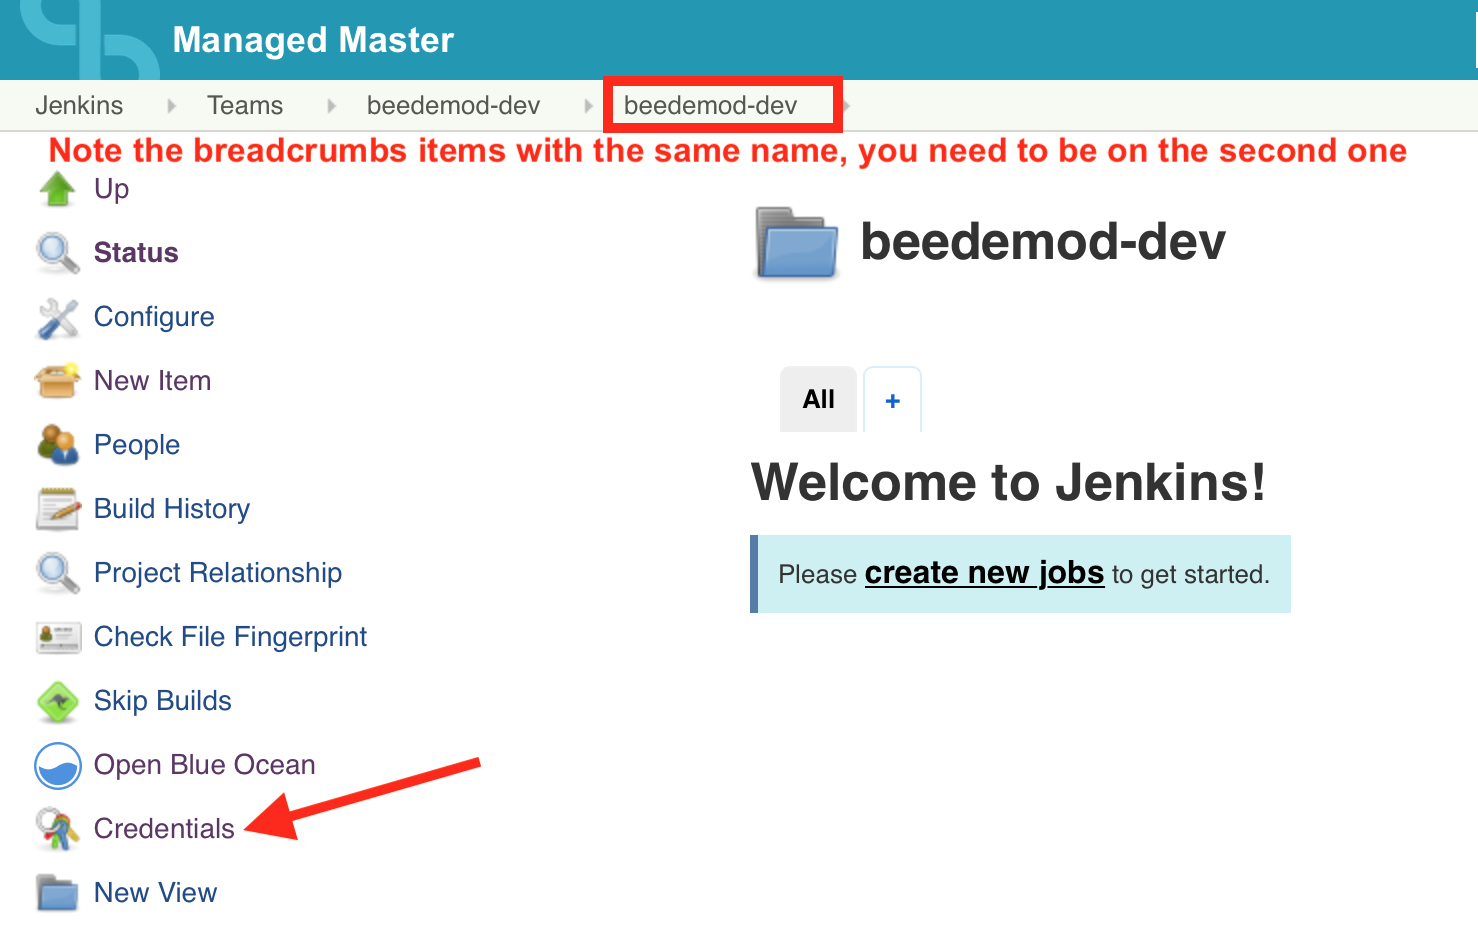
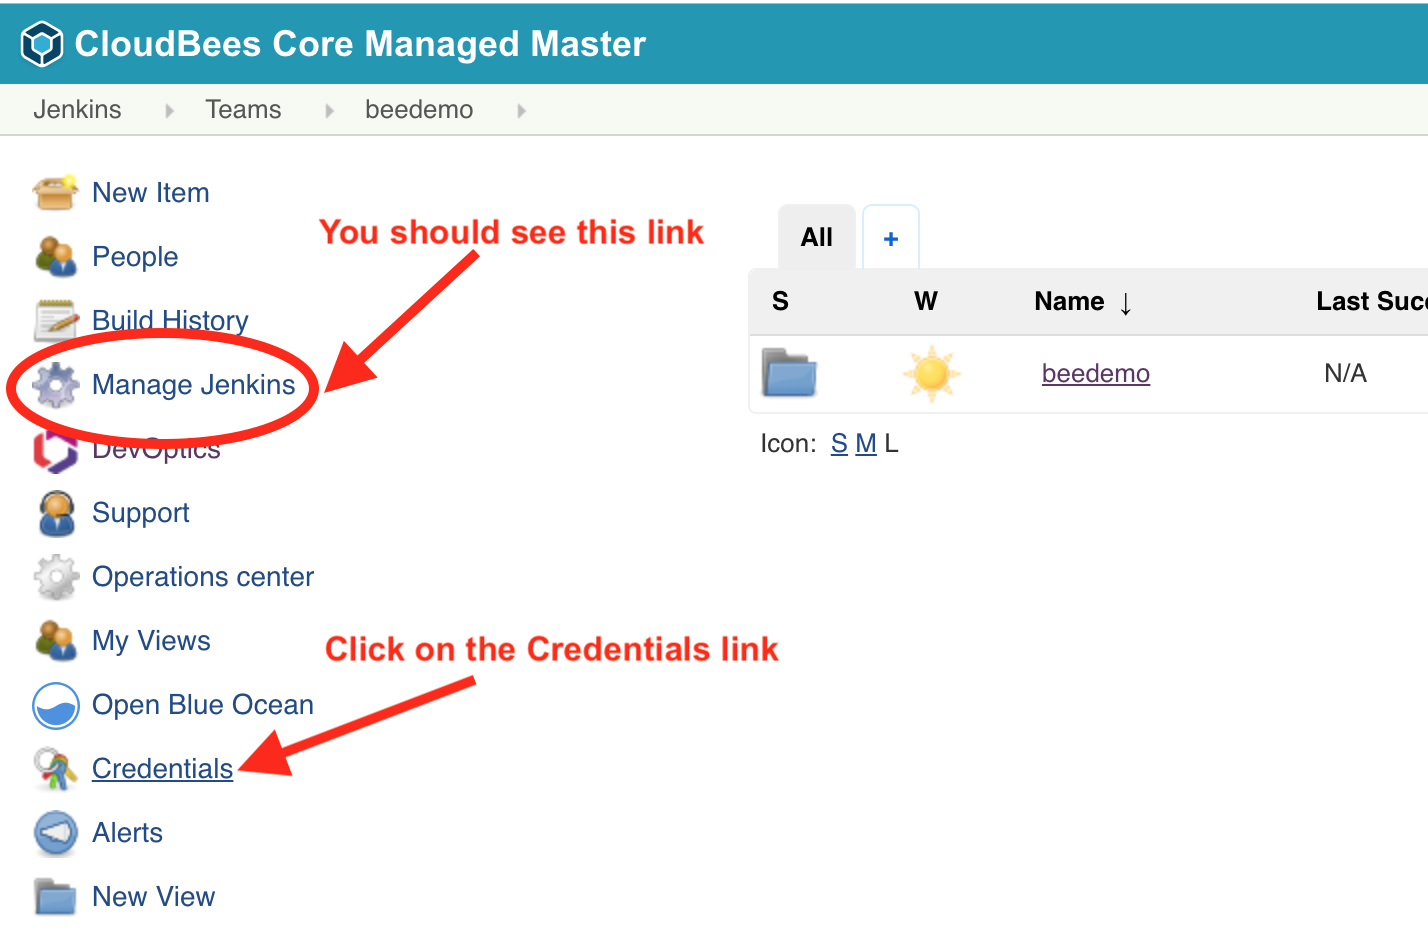
misc intro updates

diff --git a/exercises/intro-pipeline-cb-core.md b/exercises/intro-pipeline-cb-core.md
@@ -12,9 +12,9 @@ We must exit the Blue Ocean UI to the Jenkins classic UI to complete the steps i
 
 Now, let's add your GitHub credentials to the Jenkins' Credentials manager to be used for the *GitHub Organization* project we will create next:
 
-1. Navigate to the top-level of your Team Master - this should be one level-up from where you exit the Blue Ocean UI.
+1. Navigate to the top-level of your Team Master - this should be one level-up from where you exit the Blue Ocean UI. You should see a **Manage Jenkins** link in the left navigation menu.
 2. Click on the **Credentials** link in the left navigation menu. <p><img src="img/intro/credentials_breadcrumbs_left_nav.png" width=850/>
-3. Click on the **(global)** link under **Stores Scoped to [YourFolderName]** (in this case **beedemo-dev**) <p><img src="img/intro/credential_folder_scope.png" width=850/>
+3. Click on the **(global)** link under **Stores scoped to Jenkins** <p><img src="img/intro/credential_folder_scope.png" width=850/>
 4. Click on **Add Credentials** in the left menu <p><img src="img/intro/credential_add_link.png" width=850/>
 5. Fill out the form (**Username with password**)
   - **Username**: The GitHub user name
@@ -25,6 +25,7 @@ Now, let's add your GitHub credentials to the Jenkins' Credentials manager to be
 
 Now let's create the Github Organization project:
 
+1. Navigate back to the top-level of your **Team Master** and click on the folder with the same name as your **Team Master**. <p><img src="img/intro/org_folder_team_folder.png" width=850/> 
 1. Click on **New Item** in the left navigation menu - make sure that you are in the folder with the same name as your team, and not at the root of your Team Master <p><img src="img/intro/org_folder_new_item.png" width=850/> 
 2. Enter your GitHub Organization name as the **Item Name** 
 3. Select **GitHub Organization** <p><img src="img/intro/org_folder_item.png" width=850/>
